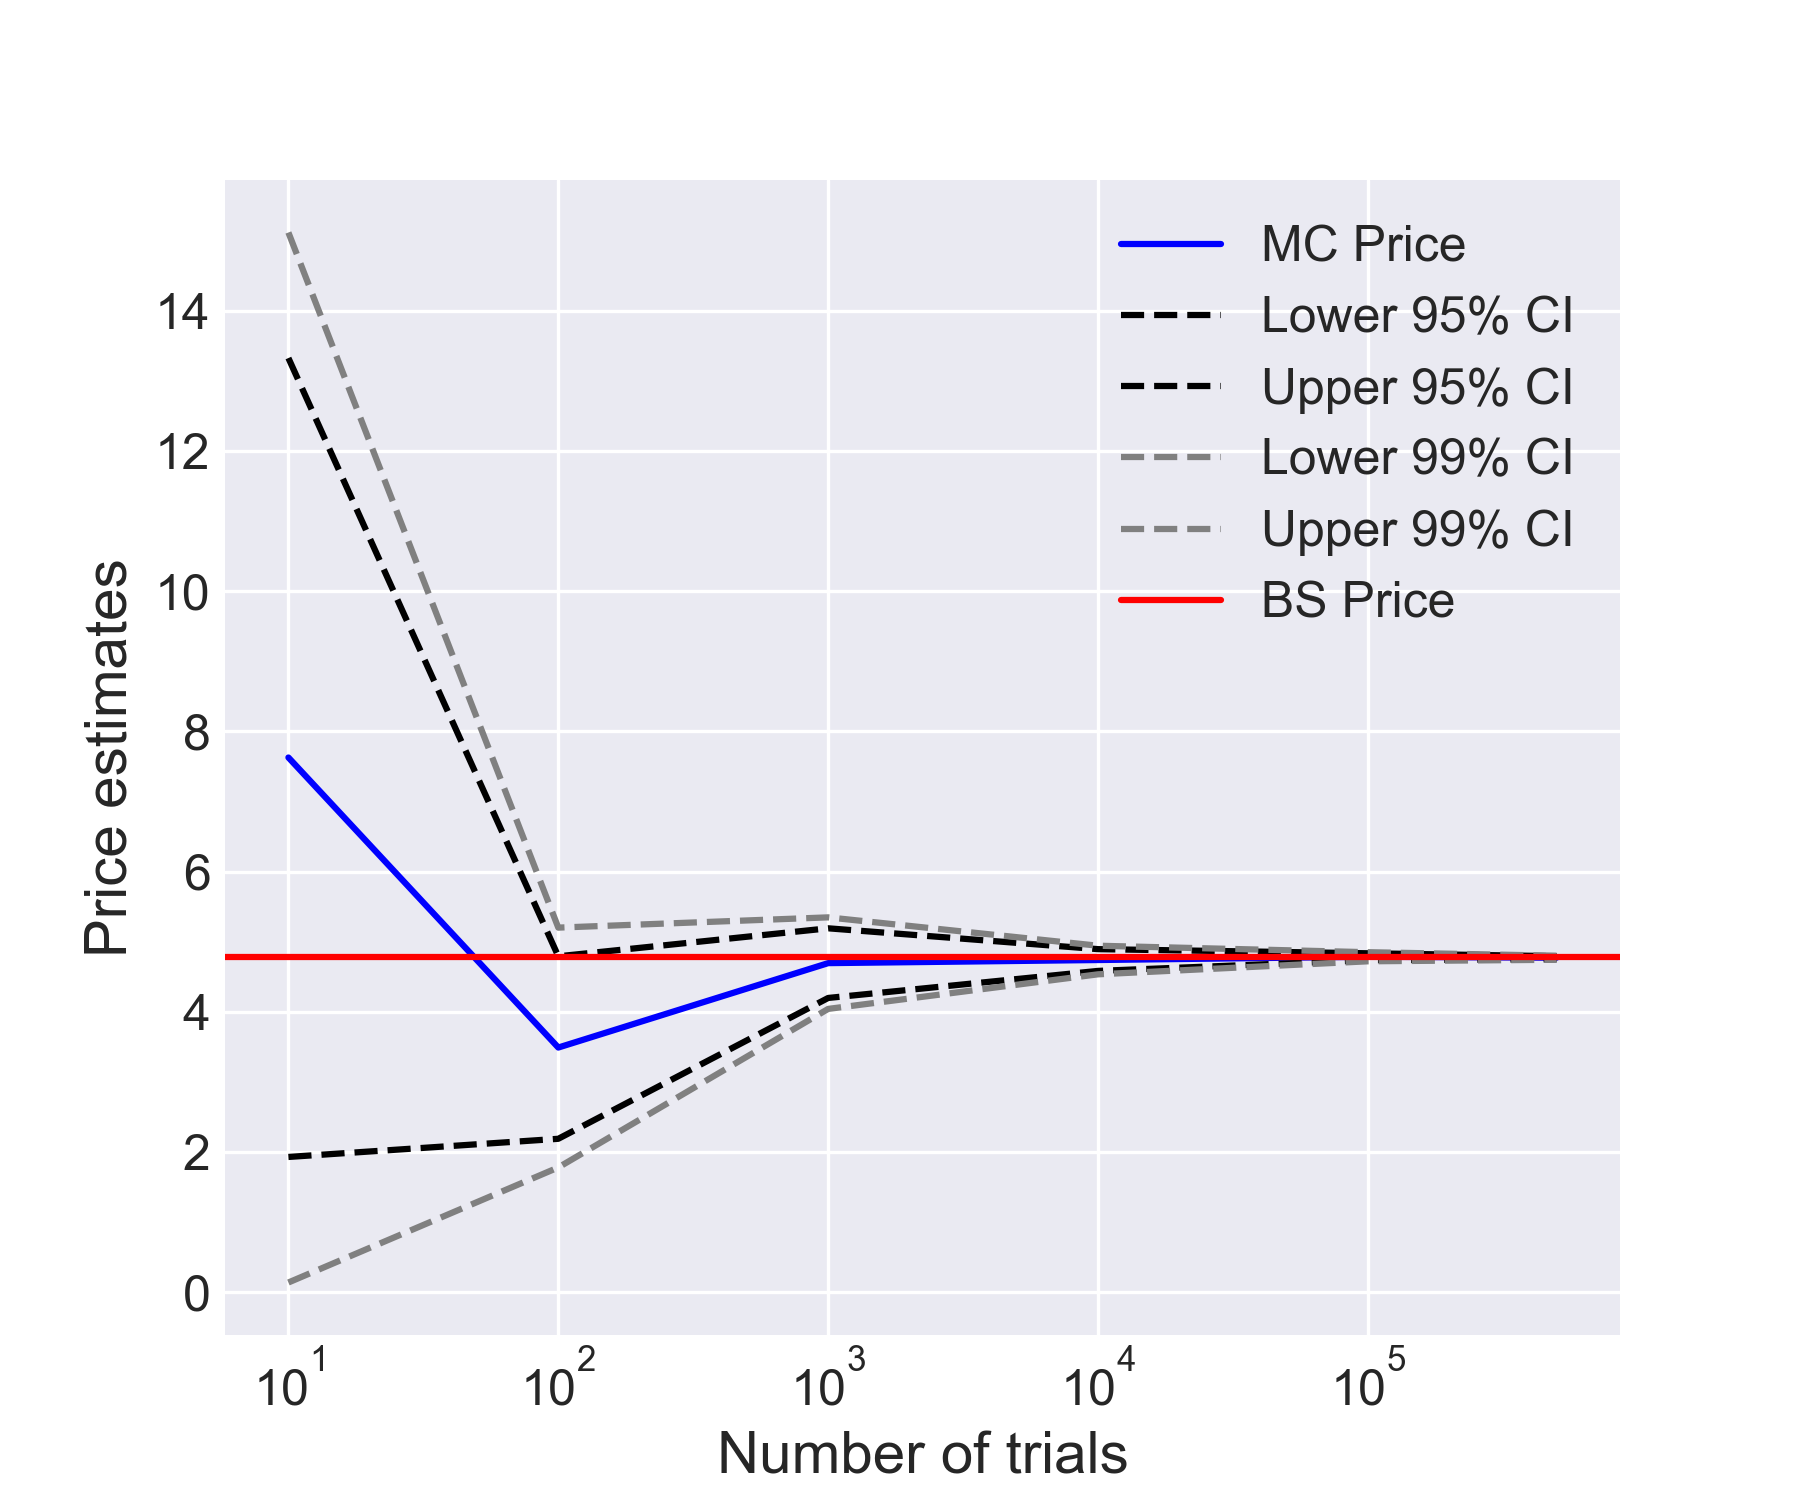
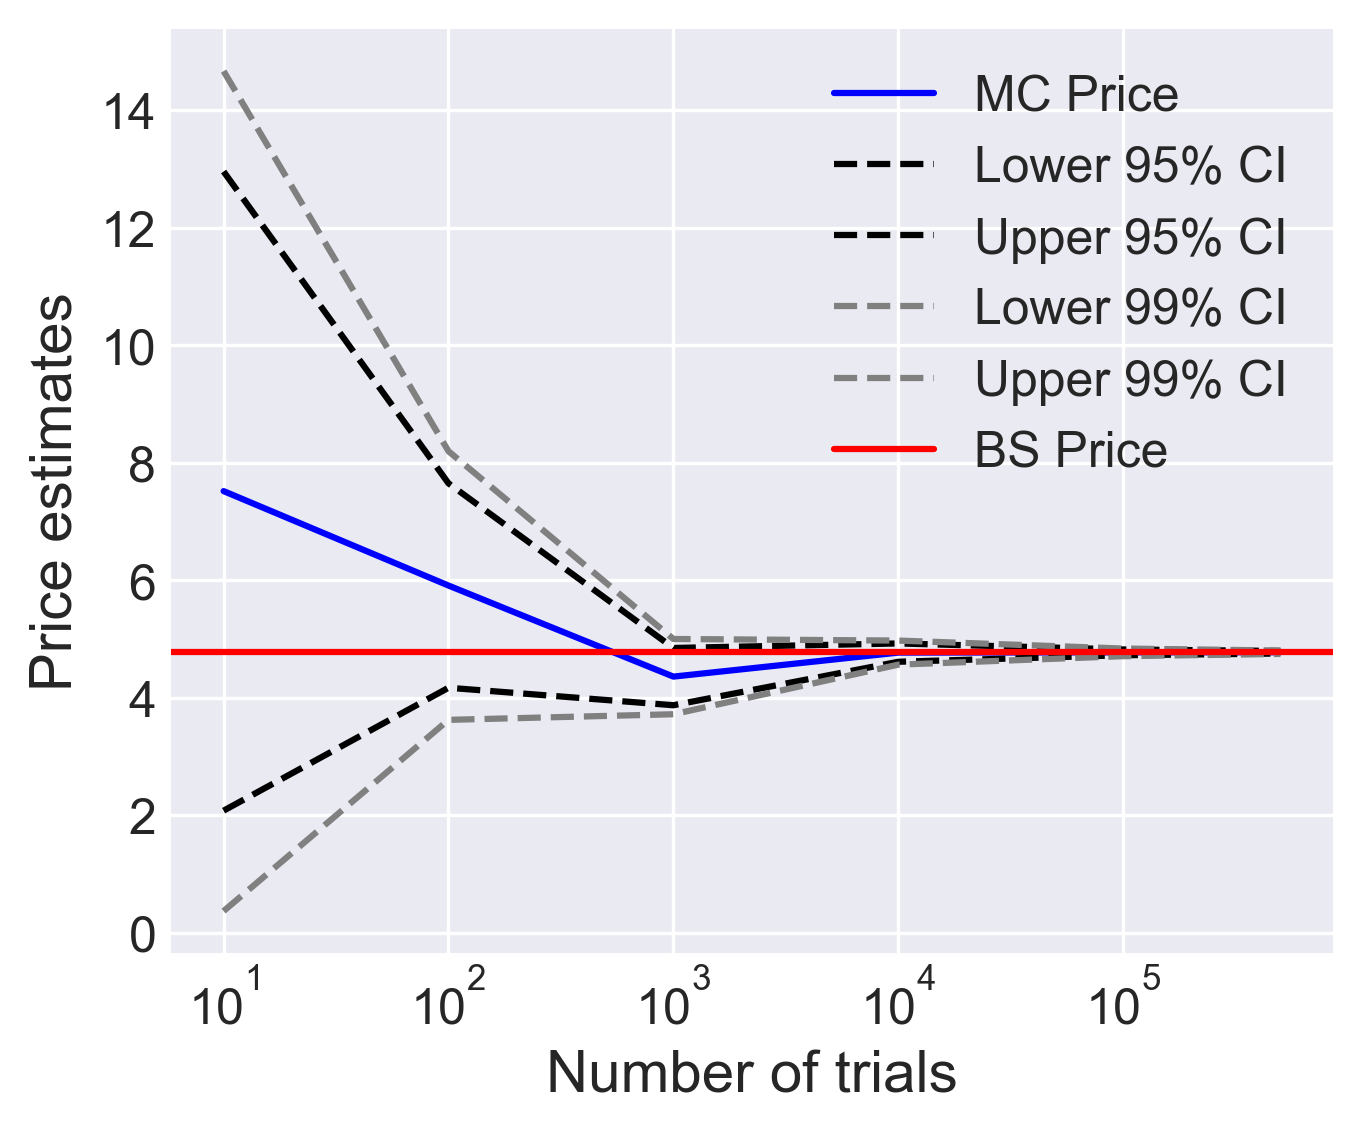
Plotting changes and small adjustments

diff --git a/HestonSensitivity.py b/HestonSensitivity.py
@@ -25,7 +25,7 @@ class sensitivityAnalysis:
         
         """
 
-        barriers = np.arange(100,310,10)
+        barriers = np.arange(100,510,10)
         prices = []
 
         for barrier in barriers:
@@ -34,7 +34,7 @@ class sensitivityAnalysis:
             S0=100,
             K=100,
             T=1,
-            r=0.06,
+            r=0.05,
             sigma=0.2,
             simulations=10_000,
             time_steps=250,
@@ -50,12 +50,13 @@ class sensitivityAnalysis:
             prices.append(price)
         
         plt.figure(figsize=(5, 4))
-        plt.plot(barriers, prices)
-        plt.xlabel("Barrier")
-        plt.ylabel("Price")
+        plt.plot(barriers, prices, color = "red")
+        plt.xlabel("$B$", fontsize=14)
+        plt.ylabel("Price", fontsize=14)
         plt.yticks(fontsize=12)
         plt.xticks(fontsize=12)
         plt.legend(fontsize=12)
+        plt.savefig("plots/heston-barrier-sensitivity", bbox_inches='tight', dpi = 300)
         plt.show()
         
 
@@ -78,7 +79,7 @@ class sensitivityAnalysis:
             S0=100,
             K=100,
             T=1,
-            r=0.06,
+            r=0.05,
             sigma=0.2,
             simulations=10_000,
             time_steps=250,
@@ -94,13 +95,14 @@ class sensitivityAnalysis:
             prices.append(price)
         
         plt.figure(figsize=(5, 4))
-        plt.plot(rhos, prices)
-        plt.axvline(x=0, color='r', linestyle=':')
-        plt.xlabel("$\\rho$")
-        plt.ylabel("Prices")
+        plt.plot(rhos, prices, color = "red")
+        plt.axvline(x=0, color='blue', linestyle=':')
+        plt.xlabel("$\\rho$", fontsize = 14)
+        plt.ylabel("Price", fontsize = 14)
         plt.yticks(fontsize=12)
         plt.xticks(fontsize=12)
         plt.legend(fontsize=12)
+        plt.savefig("plots/heston-correlation-sensitivity",bbox_inches='tight',dpi = 300)
         plt.show()
 
         
@@ -123,7 +125,7 @@ class sensitivityAnalysis:
             S0=100,
             K=100,
             T=1,
-            r=0.06,
+            r=0.05,
             sigma=0.2,
             simulations=10_000,
             time_steps=250,
@@ -131,7 +133,7 @@ class sensitivityAnalysis:
             theta = 0.04,
             kappa = 2, 
             epsilon = epsilon,
-            rho =  -0.7, #Vary rho's
+            rho =  -0.7, 
             V0 = 0.20 
         )
             
@@ -139,12 +141,13 @@ class sensitivityAnalysis:
             prices.append(price)
         
         plt.figure(figsize=(5, 4))
-        plt.plot(epsilons, prices)        
-        plt.xlabel("$\\epsilon$")
-        plt.ylabel("Prices")
+        plt.plot(epsilons, prices, color = "red")        
+        plt.xlabel("$\\epsilon$", fontsize = 14)
+        plt.ylabel("Price", fontsize = 14)
         plt.yticks(fontsize=12)
         plt.xticks(fontsize=12)
         plt.legend(fontsize=12)
+        plt.savefig("plots/heston-vol-of-vol-sensitivity",bbox_inches='tight', dpi = 300)
         plt.show()
 
         

diff --git a/Convergence.py b/Convergence.py
@@ -101,7 +101,7 @@ class Convergence:
         sigma=0.2
     )
         
-        plt.figure(figsize=(6, 5))
+        plt.figure(figsize=(5, 4))
             
         plt.plot(num_of_trials, price_estimates, label = "MC Price", color = "blue")
         plt.plot(num_of_trials,lower_95_CI_values, linestyle='--', label = "Lower 95% CI", color = "black")
@@ -115,7 +115,7 @@ class Convergence:
         plt.yticks(fontsize=12)
         plt.xticks(fontsize=12)
         plt.legend(fontsize=12)
-        plt.savefig("plots/plot_q1_convergence", dpi = 300)
+        plt.savefig("plots/plot_q1_convergence",bbox_inches='tight', dpi = 300)
         plt.show()
 
     
@@ -145,14 +145,14 @@ class Convergence:
             put.compute_RMSE()
             RMSEs.append(put.RMSE)
 
-        plt.figure(figsize=(6, 5))
+        plt.figure(figsize=(5, 4))
         plt.plot(num_of_trials, RMSEs)
-        plt.xlabel("Number of trials")
-        plt.ylabel("Standard error")
+        plt.xlabel("Number of trials", fontsize = 14)
+        plt.ylabel("Standard error", fontsize = 14)
         plt.yticks(fontsize=12)
         plt.xticks(fontsize=12)
         plt.legend(fontsize=12)
-        plt.savefig("plots/plot_q1_standard_error", dpi = 300)
+        plt.savefig("plots/plot_q1_standard_error",bbox_inches='tight', dpi = 300)
         plt.show()
 
 
@@ -203,10 +203,11 @@ class Convergence:
         plt.figure(figsize=(5, 4))
         plt.plot(Ks, mc_prices)
         plt.xlabel("K",fontsize=14)
-        plt.ylabel("Prices", fontsize=14)
+        plt.ylabel("Price", fontsize=14)
         plt.yticks(fontsize=12)
         plt.xticks(fontsize=12)
         plt.legend(fontsize=12)
+        plt.savefig("plots/mc-strike-sensitivity",bbox_inches='tight', dpi = 300)
         plt.show()
 
         #Difference between MC price and BS price for different K's
@@ -217,6 +218,7 @@ class Convergence:
         plt.yticks(fontsize=12)
         plt.xticks(fontsize=12)
         plt.legend(fontsize=12)
+        plt.savefig("plots/bs-strike-sensitivity", bbox_inches='tight', dpi = 300)
         plt.show()
 
 
@@ -267,10 +269,11 @@ class Convergence:
         plt.figure(figsize=(5, 4))
         plt.plot(sigmas, mc_prices)
         plt.xlabel("$\\sigma$",fontsize=14)
-        plt.ylabel("Prices", fontsize=14)
+        plt.ylabel("Price", fontsize=14)
         plt.yticks(fontsize=12)
         plt.xticks(fontsize=12)
         plt.legend(fontsize=12)
+        plt.savefig("plots/mc-sigma-sensitivity", bbox_inches='tight', dpi = 300)
         plt.show()
 
         #Difference between MC price and BS price for different sigmas
@@ -281,6 +284,7 @@ class Convergence:
         plt.yticks(fontsize=12)
         plt.xticks(fontsize=12)
         plt.legend(fontsize=12)
+        plt.savefig("plots/bs-sigma-sensitivity",bbox_inches='tight', dpi = 300)
         plt.show()
 
 

diff --git a/Options.py b/Options.py
@@ -126,6 +126,51 @@ class EuUpAndOutCall(MonteCarlo):
         price = np.exp(-self.r * self.T) * np.mean(payoff)
 
         return price
+    
+    def compute_RMSE(self):
+
+        '''
+        Description
+        -----------
+        Computes the Route Mean Square Error for the estimated option price 
+        '''
+
+        cols_greater_than_barrier = np.any(self.price_paths >= self.barrier, axis = 0) #Checks row by row if any column contains a stock price >= B
+        
+        self.price_paths[-1,cols_greater_than_barrier] = 0 #Using boolean indexing. If any of the columns contained a S > B, the last element of that column will be set to 0 for the purpose of calculating the payoff of the barrier 
+        
+        payoff = np.maximum(self.price_paths[-1] - self.K, 0) #Subtract K from the last price of each simulation (price at time T)
+        
+        discounted_payoffs = payoff * np.exp(-self.r * self.T) #Discount each payoff back to T0
+
+        sd = np.std(discounted_payoffs, ddof= 1) #standard_deviation
+
+        RMSE = sd/np.sqrt(self.simulations) #Route Mean Squared Error
+
+        self.RMSE = RMSE
+
+    
+    def compute_CI(self, price_estimate):
+
+        '''
+        Description
+        -----------
+        Computes the confidence intervals for the estimated option price 
+        '''
+        
+        Z_95 = 1.96 #Z score of 95% CI
+
+        lower_95 = price_estimate - (Z_95 * self.RMSE) #Lower bound of 95% CI
+        upper_95 = price_estimate + (Z_95 * self.RMSE) #Upper bound of 95% CI
+
+        Z_99 = 2.576 #Z score of 95% CI
+
+        lower_99 = price_estimate - (Z_99 * self.RMSE) #Lower bound of 95% CI
+        upper_99 = price_estimate + (Z_99 * self.RMSE) #Upper bound of 95% CI
+
+
+        return lower_95, upper_95, lower_99, upper_99
+
 
     
 class DigitalOption(MonteCarlo):

diff --git a/MonteCarlo.py b/MonteCarlo.py
@@ -111,8 +111,6 @@ class MonteCarlo:
         implemented with the Millstein scheme
         
         """
-    
-        # TODO Find the correct value for V0
 
         
         dt = self.T / self.time_steps
@@ -138,11 +136,10 @@ class MonteCarlo:
             V[t] = V[t-1] + self.kappa*(self.theta - np.maximum(V[t-1],0))*dt + self.epsilon*np.sqrt(np.maximum(V[t-1],0)*dt)*Zv[t-1] + (1/4)*(self.epsilon**2)*dt*((Zv[t-1]**2) - 1)
             
             #Update stock price (USED GEOMETRIC MODEL SO THAT IT IS CONSISTENT WITH THE OTHER GENERATE STOCK PATHS METHOD)
-            S[t] =  S[t-1] * np.exp((self.r - (1/2)*np.maximum(V[t],0))*dt + np.sqrt(np.maximum(V[t],0)*dt)*Zs[t-1])
+            S[t] =  S[t-1] * np.exp((self.r - (1/2)*np.maximum(V[t-1],0))*dt + np.sqrt(np.maximum(V[t],0)*dt)*Zs[t-1])
 
             progress_bar(t / self.time_steps) 
 
-            # TODO add a self.with_progress_bar attribute
         clear_progress_bar()
         
         self.price_paths = S
